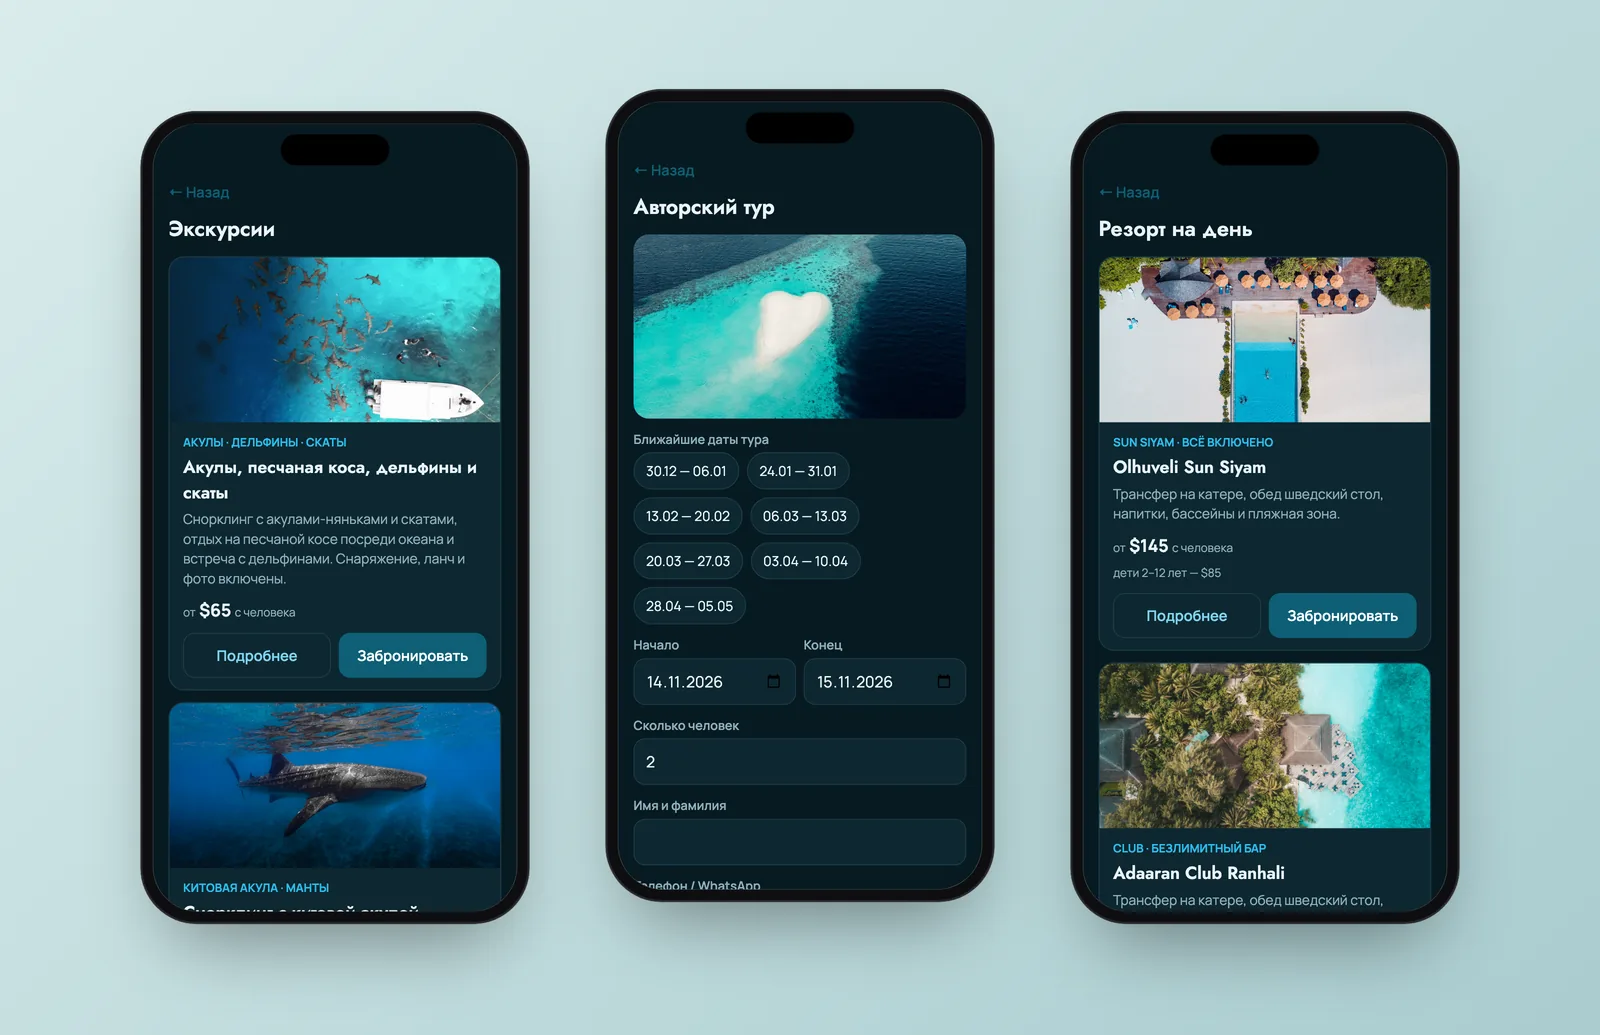
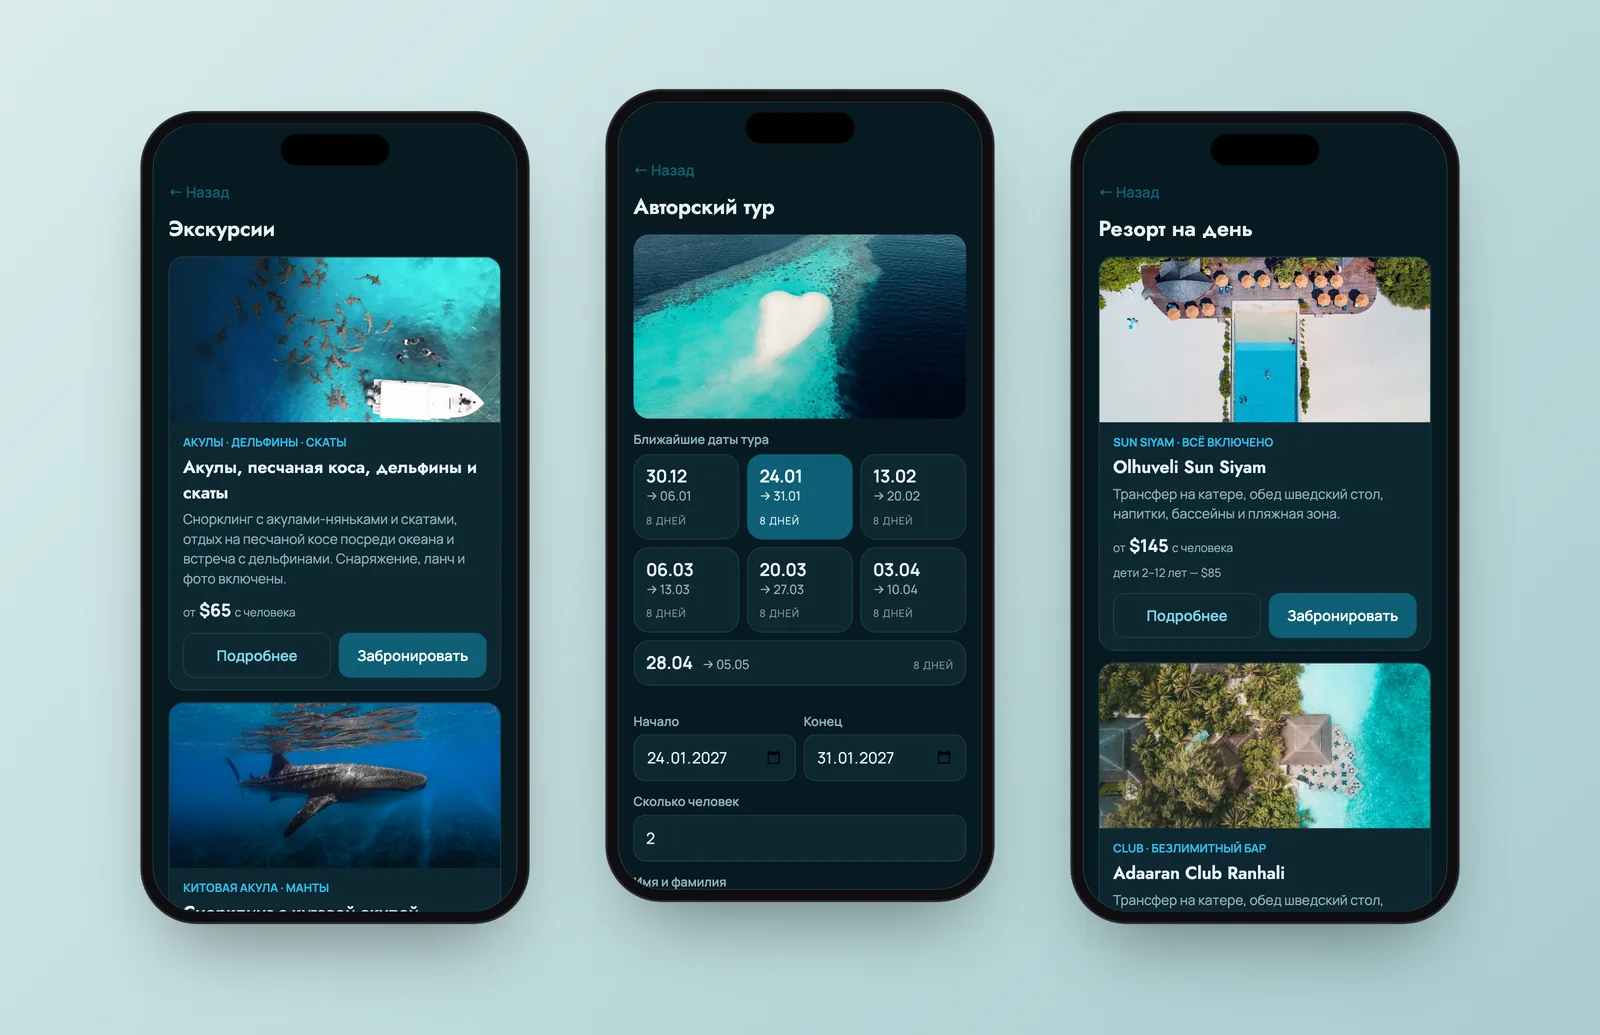
chore: ALGA tour form screenshot with date cards

diff --git a/case-alga.html b/case-alga.html
@@ -473,7 +473,7 @@ if(c==='1')arm()})();
     </figure>
 
     <figure class="case-shot reveal">
-      <img src="images/alga-tg-app-2.webp?v=1"
+      <img src="images/alga-tg-app-2.webp?v=2"
            alt="Telegram-приложение ALGA: экскурсии с ценами, заявка на авторский тур с датами, резорты на день"
            width="1600" height="1035" loading="lazy" decoding="async">
       <figcaption>Каталог экскурсий и резортов с ценами в долларах; заявка на авторский тур — даты выбираются одним касанием.</figcaption>
